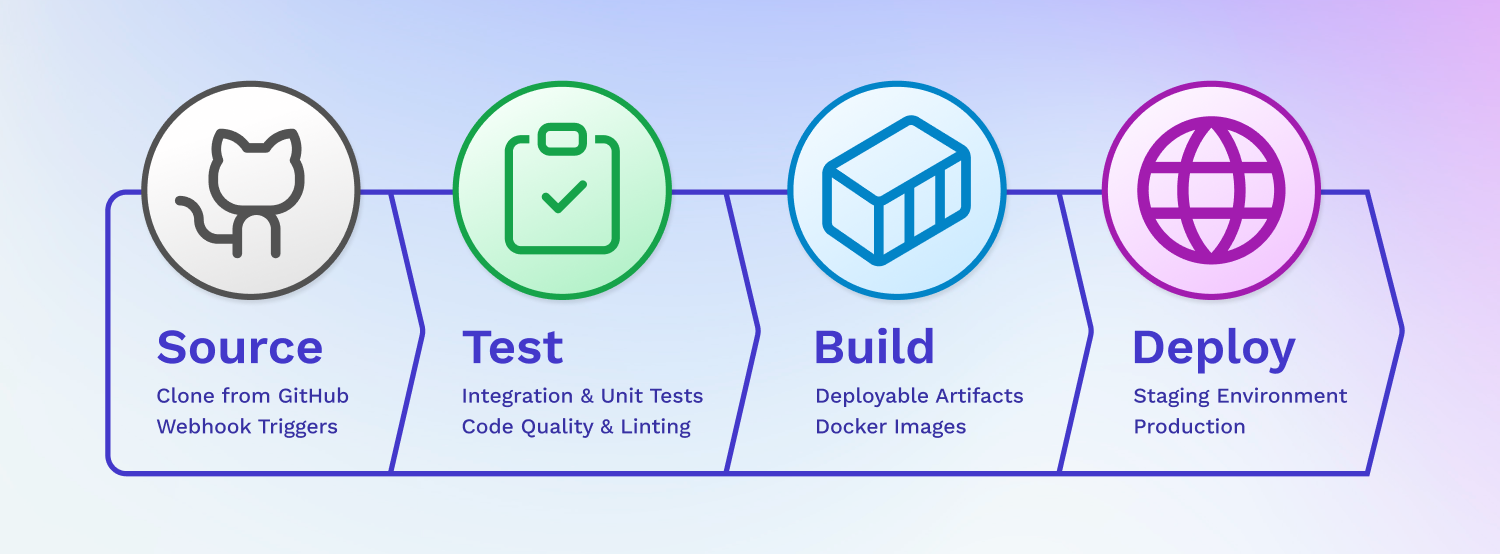
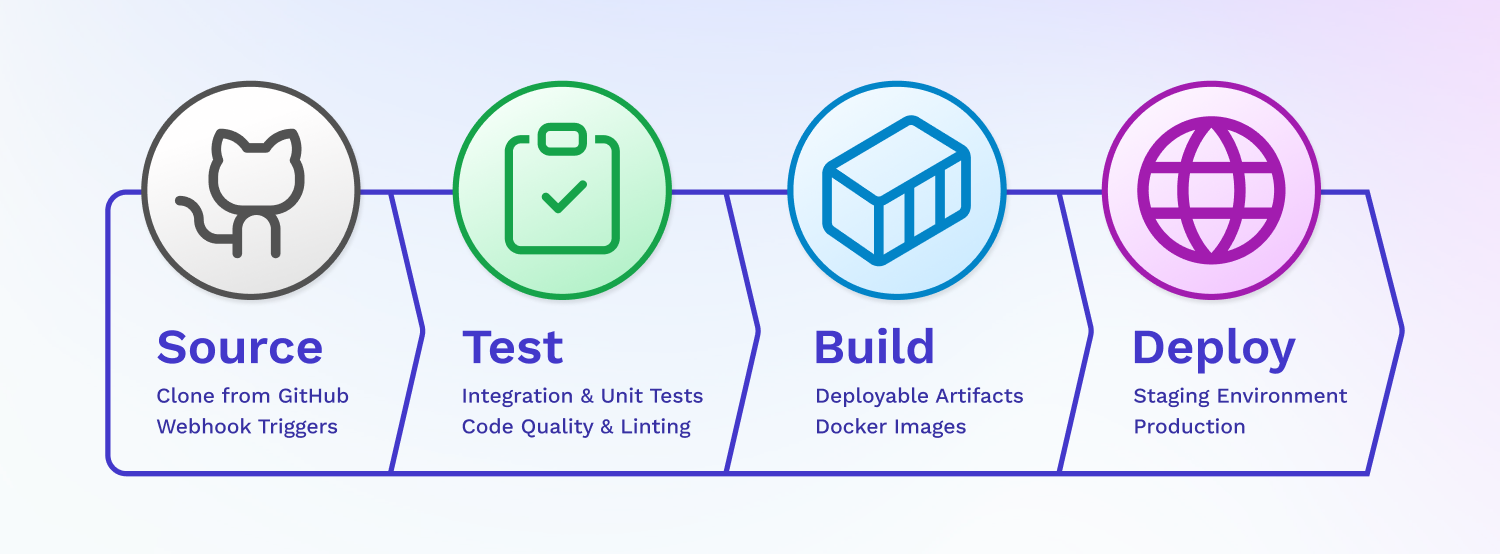
fix: convert neutral color to gray

Changed region(s): [[0.0613, 0.0, 1.0, 0.583]]

diff --git a/components/bio.tsx b/components/bio.tsx
@@ -17,7 +17,7 @@ export default function Bio() {
           challenges, improving processes through automation, and leading
           cross-functional efforts.
         </p>
-        <p className="border-l-2 border-l-neutral-400 pl-2 italic sm:border-l-4 sm:py-1 sm:pl-4">
+        <p className="border-l-2 border-l-gray-400 pl-2 italic sm:border-l-4 sm:py-1 sm:pl-4">
           I{"'"}m currently looking for a software engineering role! Please
           reach out if you{"'"}d like to chat:{' '}
           <a
@@ -47,7 +47,7 @@ export default function Bio() {
           alt="Jason Wang"
           width={170}
           height={170}
-          className="rounded-full border border-neutral-200"
+          className="rounded-full border border-gray-200"
           priority
         />
       </div>

diff --git a/app/layout.tsx b/app/layout.tsx
@@ -48,15 +48,13 @@ export default function RootLayout({
   children: React.ReactNode;
 }) {
   return (
-    // Satoshi 400 weight is too thin; use medium 500 for legibility
     <html
       lang="en"
       className={clsx(
-        'bg-neutral-50 font-sans font-medium text-neutral-700 antialiased',
+        'bg-gray-50 font-sans font-medium text-gray-700 antialiased',
         satoshi.variable,
       )}
     >
-      {/* Width 320-1024px; x-padding increases with screen size */}
       <body className="mx-auto min-h-screen min-w-[360px] max-w-5xl px-4 sm:px-6 lg:px-8">
         <Navbar />
         {children}

diff --git a/components/seamless-summary.tsx b/components/seamless-summary.tsx
@@ -7,7 +7,7 @@ import GradientButtonLink from '@/components/ui/gradient-button-link';
 export default function SeamlessSummary() {
   return (
     <div id="seamless">
-      <p className="text-xs font-bold uppercase tracking-wider text-neutral-500 sm:text-base">
+      <p className="text-xs font-bold uppercase tracking-wider text-gray-500 sm:text-base">
         Featured Project
       </p>
       <div className="mt-2 flex flex-col justify-between sm:flex-row sm:items-center">

diff --git a/components/navbar.tsx b/components/navbar.tsx
@@ -6,7 +6,7 @@ export default function Navbar() {
   return (
     <nav className="mt-4 flex flex-col items-baseline justify-between sm:mt-12 sm:flex-row">
       <Link href="/" className="no-underline">
-        <span className="text-2xl font-bold text-neutral-800 hover:text-indigo-700 sm:text-3xl">
+        <span className="text-2xl font-bold text-gray-800 hover:text-indigo-700 sm:text-3xl">
           Jason Wang
         </span>
       </Link>

diff --git a/app/projects/page.tsx b/app/projects/page.tsx
@@ -17,7 +17,7 @@ export default function Projects() {
       </section>
       <Separator className="my-16 sm:my-24" />
       <div className="mb-10 mt-2 sm:mb-16">
-        <h1 className="text-2xl font-semibold text-neutral-600 sm:text-4xl">
+        <h1 className="text-2xl font-semibold text-gray-600 sm:text-4xl">
           Other Projects
         </h1>
         <p className="mt-2 sm:text-xl">

diff --git a/components/seamless.tsx b/components/seamless.tsx
@@ -19,7 +19,7 @@ export default function Seamless() {
         <Image
           src={pipelineStagesImage}
           alt="Pipeline Stages"
-          className="rounded-xl shadow-md sm:rounded-3xl sm:shadow-lg"
+          className="rounded-xl border-2 border-gray-200 shadow-md sm:rounded-3xl sm:shadow-lg"
           priority
         />
       </div>

diff --git a/components/project.tsx b/components/project.tsx
@@ -49,7 +49,7 @@ export default function Project({ project, index }: ProjectProps) {
         </div>
       </div>
       <p className="mt-4 sm:text-xl sm:leading-relaxed">{description}</p>
-      <p className="mt-4 text-sm text-neutral-500">{stack}</p>
+      <p className="mt-4 text-sm text-gray-500">{stack}</p>
     </div>
   );
 }

diff --git a/components/ui/separator.tsx b/components/ui/separator.tsx
@@ -3,7 +3,7 @@ import clsx from 'clsx';
 export default function Separator({ className }: { className: string }) {
   return (
     <div
-      className={clsx('h-[1px] w-full shrink-0 bg-neutral-300', className)}
+      className={clsx('h-[1px] w-full shrink-0 bg-gray-300', className)}
     ></div>
   );
 }

diff --git a/styles/globals.css b/styles/globals.css
@@ -4,7 +4,7 @@
 
 @layer base {
   a {
-    @apply underline text-neutral-500 hover:text-indigo-600;
+    @apply underline text-gray-500 hover:text-indigo-600;
   }
   p {
     @apply max-w-prose sm:leading-relaxed
